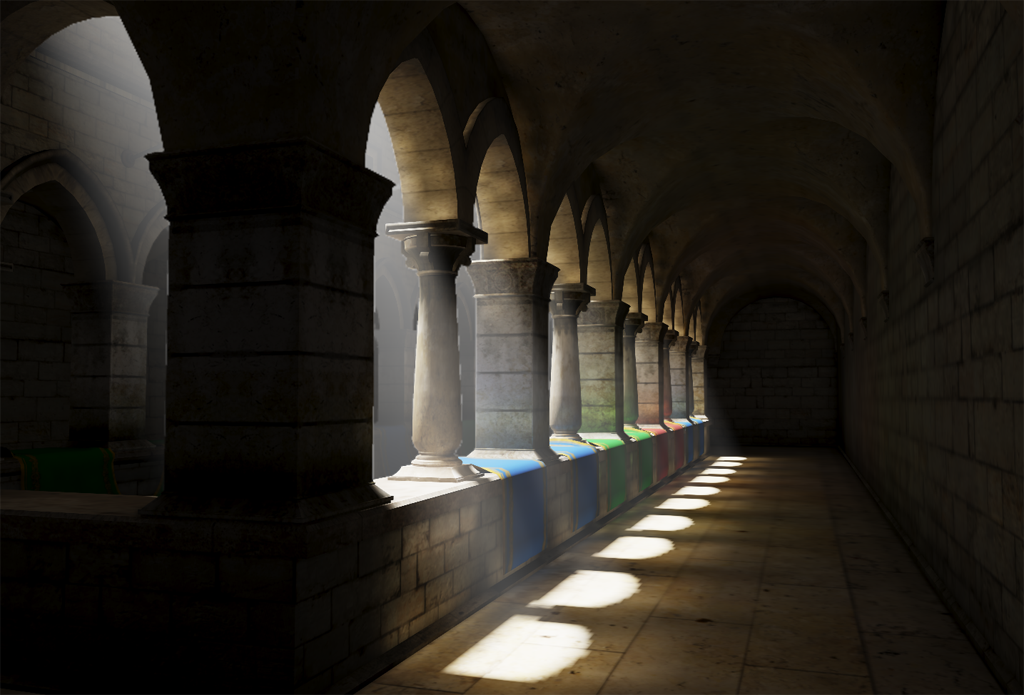
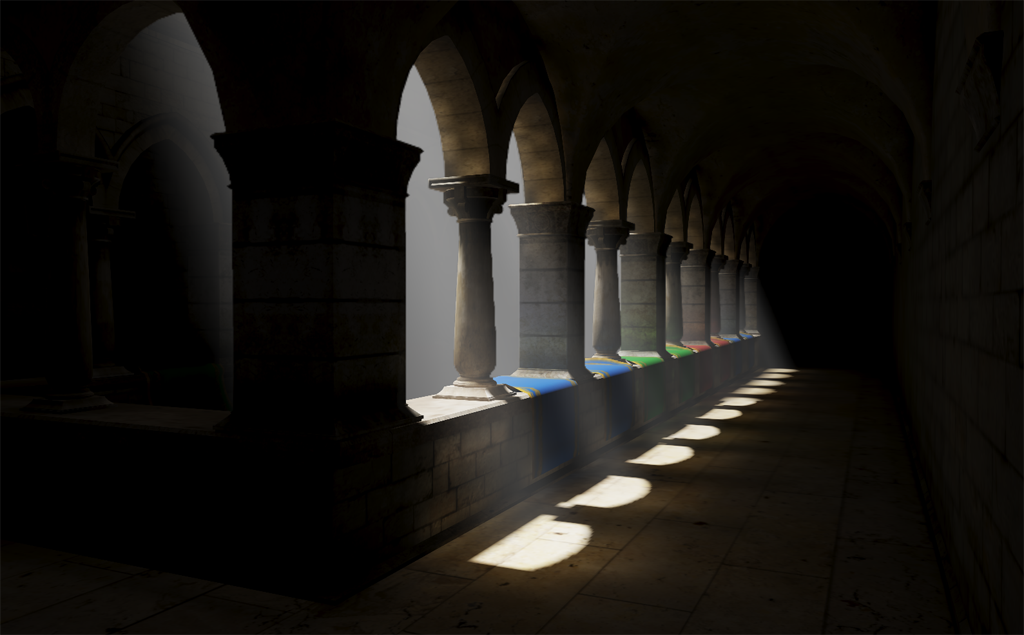
fix bug

diff --git a/src/Framework.cpp b/src/Framework.cpp
@@ -113,7 +113,7 @@ void Framework::initPipeline()
 	mPipeline->pushStage<SkyBox>("media/black.png", false);
 	mPipeline->pushStage<VolumetricLighting>();
 	//mPipeline->pushStage<MotionBlur>();
-	//mPipeline->pushStage<HDR>();
+	mPipeline->pushStage<HDR>();
 
 	mPipeline->pushStage<PostProcessing>("hlsl/gamma_correction.hlsl");
 	mPipeline->pushStage<TAA>();
@@ -128,8 +128,8 @@ void Framework::initPipeline()
 void Framework::initScene()
 {
 
-	int numdirs = 0;
-	int numpoints =1;
+	int numdirs = 1;
+	int numpoints =0;
 
 	set("time", { {"value", 3.14f}, {"min", "1.57"}, {"max", "4.71"}, {"interval", "0.001"}, {"type","set"} });
 	set("numdirs", { {"value", numdirs}, {"min", 0}, {"max", numdirs}, {"interval", 1}, {"type","set"} });
@@ -221,8 +221,10 @@ void Framework::initScene()
 	auto cam = mScene->createOrGetCamera("main");
 	DirectX::XMFLOAT3 eye(aabb.second);
 	DirectX::XMFLOAT3 at(aabb.first);
-	cam->lookat(eye, at);
+	//cam->lookat(eye, at);
 	//cam->lookat({ 10,10,0 }, { 10,0,0 });
+	cam->getNode()->setPosition((aabb.first + aabb.second) * 0.5f);
+	cam->setDirection({ 0,0,1 });
 	cam->setViewport(0, 0, mRenderer->getWidth(), mRenderer->getHeight());
 	cam->setNearFar(vec.Length() * 0.01f, vec.Length() + 1);
 	cam->setFOVy(0.785398185);
@@ -231,8 +233,8 @@ void Framework::initScene()
 	auto light = mScene->createOrGetLight("main");
 	light->setDirection({0,-1,0.4 });
 	light->setCastingShadow(true);
-	light->setType(Scene::Light::LT_POINT);
-	light->getNode()->setPosition((aabb.first + aabb.second) * 0.5f);
+	//light->setType(Scene::Light::LT_POINT);
+	//light->getNode()->setPosition((aabb.first + aabb.second) * 0.5f);
 
 	auto probe = mScene->createProbe("main");
 	probe->setProxyBox(vec);

diff --git a/src/VolumetricLighting.cpp b/src/VolumetricLighting.cpp
@@ -28,9 +28,9 @@ void VolumetricLighting::init()
 		D3D11_TEXTURE_ADDRESS_BORDER,
 		D3D11_COMPARISON_LESS_EQUAL,
 		0, 0);
-	set("vl-numsamples", { {"type","set"}, {"value",64},{"min","0"},{"max",1024},{"interval", "1"} });
+	set("vl-numsamples", { {"type","set"}, {"value",16},{"min","0"},{"max",1024},{"interval", "1"} });
 	set("vl-jitter", { {"type","set"}, {"value",1},{"min","0"},{"max",1},{"interval", "0.01"} });
-	set("vl-density", { {"type","set"}, {"value",0.02},{"min","0"},{"max","0.1"},{"interval", "0.0001"} });
+	set("vl-density", { {"type","set"}, {"value",1},{"min","0"},{"max","0.01"},{"interval", "0.00001"} });
 
 	mDownsample = ImageProcessing::create<SamplingBox>(r);
 	mGauss = ImageProcessing::create<Gaussian>(r);
@@ -128,7 +128,8 @@ void VolumetricLighting::render(Renderer::Texture2D::Ptr rt)
 	});
 
 
-	auto ret = mGauss->process(tmp->get());
+	//auto ret = mGauss->process(tmp->get());
+	auto ret = std::move(tmp);
 
 	quad->setBlend(mBlend);
 	quad->setRenderTarget(rt);
